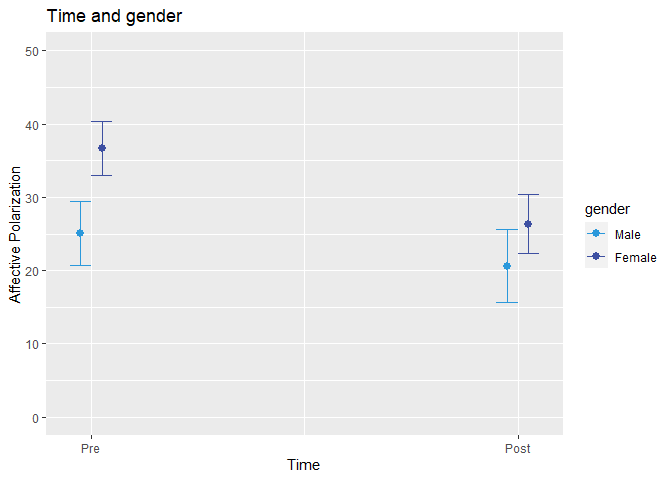
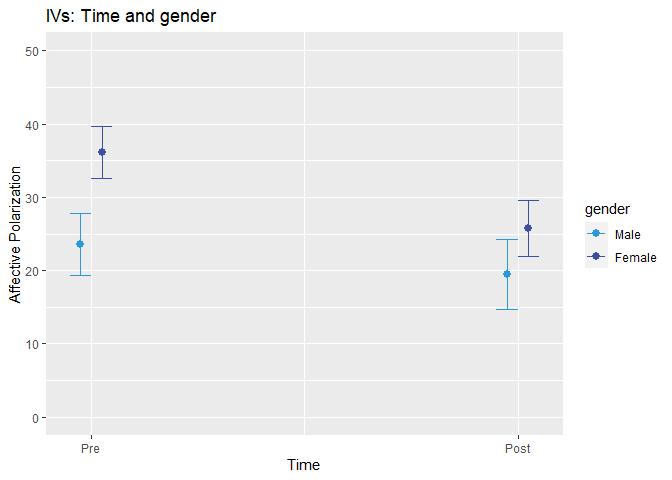
update readme

diff --git a/README.md b/README.md
@@ -126,7 +126,7 @@ assessmentv7 <- om_download_at(key,
 
     ## Seting up key
     ## Download AssessmentV7 Data
-    ## Done. AssessmentV7 Data has 984 rows
+    ## Done. AssessmentV7 Data has 1084 rows
 
 ## `om_filter_data`
 
@@ -345,6 +345,7 @@ This section introduces the openmindR analysis functions.
 
   - [om\_ttest](https://github.com/openmindplatform/openmindR#om_ttest)
   - [om\_lm](https://github.com/openmindplatform/openmindR#om_lm)
+  - [om\_lmer](https://github.com/openmindplatform/openmindR#om_lmer)
 
 ## `om_ttest`
 
@@ -503,9 +504,9 @@ results$model
     ## 
     ## Coefficients:
     ##                        (Intercept)               ppol_catConservatives  
-    ##                            1.75000                             0.08824  
+    ##                            1.72358                             0.12149  
     ##                       genderFemale  ppol_catConservatives:genderFemale  
-    ##                            0.09404                            -0.13227
+    ##                            0.09275                            -0.16363
 
 ### Show a regression table
 
@@ -517,19 +518,19 @@ results$table
     ## ==============================================
     ##                                     Model 1   
     ## ----------------------------------------------
-    ## (Intercept)                           1.75 ***
+    ## (Intercept)                           1.72 ***
     ##                                      (0.06)   
-    ## ppol_catConservatives                 0.09    
+    ## ppol_catConservatives                 0.12    
     ##                                      (0.10)   
     ## genderFemale                          0.09    
-    ##                                      (0.08)   
-    ## ppol_catConservatives:genderFemale   -0.13    
+    ##                                      (0.07)   
+    ## ppol_catConservatives:genderFemale   -0.16    
     ##                                      (0.14)   
     ## ----------------------------------------------
     ## R^2                                   0.00    
     ## Adj. R^2                             -0.00    
-    ## Num. obs.                           454       
-    ## RMSE                                  0.67    
+    ## Num. obs.                           501       
+    ## RMSE                                  0.66    
     ## ==============================================
     ## *** p < 0.001, ** p < 0.01, * p < 0.05
 
@@ -547,20 +548,20 @@ standardized version of the dataset. Effect sizes were labelled
 following Funder’s (2019) recommendations.
 
 The model explains a not significant and very weak proportion of
-variance (R2 = 0.00, F(3, 450) = 0.51, p = 0.673, adj. R2 = 0.00). The
+variance (R2 = 0.00, F(3, 497) = 0.71, p = 0.546, adj. R2 = 0.00). The
 model’s intercept, corresponding to ppol\_extreme = 0, ppol\_cat =
-Progressives and gender = Male, is at 1.75 (SE = 0.06, 95% CI \[1.62,
-1.88\], p \< .001). Within this model:
+Progressives and gender = Male, is at 1.72 (SE = 0.06, 95% CI \[1.61,
+1.84\], p \< .001). Within this model:
 
   - The effect of ppol\_catConservatives is positive and can be
-    considered as very small and not significant (beta = 0.09, SE =
-    0.10, 95% CI \[-0.12, 0.29\], std. beta = 0.13, p = 0.395).
+    considered as very small and not significant (beta = 0.12, SE =
+    0.10, 95% CI \[-0.07, 0.32\], std. beta = 0.18, p = 0.221).
   - The effect of genderFemale is positive and can be considered as very
-    small and not significant (beta = 0.09, SE = 0.08, 95% CI \[-0.06,
-    0.25\], std. beta = 0.14, p = 0.233).
+    small and not significant (beta = 0.09, SE = 0.07, 95% CI \[-0.05,
+    0.24\], std. beta = 0.14, p = 0.207).
   - The effect of ppol\_catConservatives:genderFemale is negative and
-    can be considered as very small and not significant (beta = -0.13,
-    SE = 0.14, 95% CI \[-0.41, 0.15\], std. beta = -0.20, p = 0.353).
+    can be considered as small and not significant (beta = -0.16, SE =
+    0.14, 95% CI \[-0.43, 0.11\], std. beta = -0.25, p = 0.232).
 
 ### Show estimated means
 
@@ -571,10 +572,10 @@ results$estimated_means %>%
 
 | gender | ppol\_cat     |     Mean |        SE |  CI\_low | CI\_high |
 | :----- | :------------ | -------: | --------: | -------: | -------: |
-| Male   | Progressives  | 1.750000 | 0.0644329 | 1.623373 | 1.876627 |
-| Male   | Conservatives | 1.838235 | 0.0812017 | 1.678654 | 1.997817 |
-| Female | Progressives  | 1.844037 | 0.0453515 | 1.754910 | 1.933164 |
-| Female | Conservatives | 1.800000 | 0.0864458 | 1.630112 | 1.969888 |
+| Male   | Progressives  | 1.723577 | 0.0599180 | 1.605853 | 1.841301 |
+| Male   | Conservatives | 1.845070 | 0.0788644 | 1.690122 | 2.000019 |
+| Female | Progressives  | 1.816326 | 0.0424548 | 1.732913 | 1.899740 |
+| Female | Conservatives | 1.774193 | 0.0843945 | 1.608380 | 1.940008 |
 
 ### Show a plot of the means
 
@@ -633,7 +634,7 @@ This function performs a mixed model and gives back some neat info
 
 Three inputs:
 
-  - *modd* a fitted model
+  - *mod* a fitted model
 
   - *type* what kind of model (currently only accepts `"int"` for
     interactions)
@@ -673,8 +674,7 @@ Next you can use `om_lmer`.
 
 ``` r
 results <- om_lmer(mixed,
-                   type = "int",
-                   mod_transform = "meansd")
+                   type = "int")
 ```
 
 ### Show the model
@@ -686,17 +686,17 @@ results$model
     ## Linear mixed model fit by REML ['lmerMod']
     ## Formula: Response ~ Time * gender + (1 | OMID)
     ##    Data: cleaned_dat_long
-    ## REML criterion at convergence: 5309.335
+    ## REML criterion at convergence: 5789.496
     ## Random effects:
     ##  Groups   Name        Std.Dev.
-    ##  OMID     (Intercept) 25.24   
-    ##  Residual             11.68   
-    ## Number of obs: 588, groups:  OMID, 364
+    ##  OMID     (Intercept) 25.00   
+    ##  Residual             11.84   
+    ## Number of obs: 640, groups:  OMID, 403
     ## Fixed Effects:
     ##           (Intercept)               TimePost           genderFemale  
-    ##                25.073                 -4.449                 11.622  
+    ##                23.560                 -4.098                 12.592  
     ## TimePost:genderFemale  
-    ##                -5.897
+    ##                -6.261
 
 ### Show a regression table
 
@@ -708,22 +708,22 @@ results$table
     ## ===================================
     ##                        Model 1     
     ## -----------------------------------
-    ## (Intercept)               25.07 ***
-    ##                           (2.26)   
-    ## TimePost                  -4.45 *  
-    ##                           (1.79)   
-    ## genderFemale              11.62 ***
-    ##                           (2.96)   
-    ## TimePost:genderFemale     -5.90 ** 
-    ##                           (2.25)   
+    ## (Intercept)               23.56 ***
+    ##                           (2.15)   
+    ## TimePost                  -4.10 *  
+    ##                           (1.78)   
+    ## genderFemale              12.59 ***
+    ##                           (2.80)   
+    ## TimePost:genderFemale     -6.26 ** 
+    ##                           (2.22)   
     ## -----------------------------------
-    ## AIC                     5321.33    
-    ## BIC                     5347.60    
-    ## Log Likelihood         -2654.67    
-    ## Num. obs.                588       
-    ## Num. groups: OMID        364       
-    ## Var: OMID (Intercept)    637.16    
-    ## Var: Residual            136.38    
+    ## AIC                     5801.50    
+    ## BIC                     5828.26    
+    ## Log Likelihood         -2894.75    
+    ## Num. obs.                640       
+    ## Num. groups: OMID        403       
+    ## Var: OMID (Intercept)    624.80    
+    ## Var: Residual            140.22    
     ## ===================================
     ## *** p < 0.001, ** p < 0.01, * p < 0.05
 
@@ -743,18 +743,18 @@ following Funder’s (2019) recommendations.The model’s total explanatory
 power is substantial (conditional R2 = 0.83) and the part related to the
 fixed effects alone (marginal R2) is of 0.05. The model’s intercept,
 corresponding to Response = 0, Time = Pre, gender = Male and OMID =
-1002059522913, is at 25.07 (SE = 2.26, 95% CI \[20.64, 29.51\], p \<
+1002059522913, is at 23.56 (SE = 2.15, 95% CI \[19.35, 27.77\], p \<
 .001). Within this model:
 
   - The effect of TimePost is negative and can be considered as very
-    small and significant (beta = -4.45, SE = 1.79, 95% CI \[-7.95,
-    -0.95\], std. beta = -0.16, p \< .05).
+    small and significant (beta = -4.10, SE = 1.78, 95% CI \[-7.58,
+    -0.62\], std. beta = -0.14, p \< .05).
   - The effect of genderFemale is positive and can be considered as
-    small and significant (beta = 11.62, SE = 2.96, 95% CI \[5.82,
-    17.42\], std. beta = 0.41, p \< .001).
+    medium and significant (beta = 12.59, SE = 2.80, 95% CI \[7.10,
+    18.08\], std. beta = 0.44, p \< .001).
   - The effect of TimePost:genderFemale is negative and can be
-    considered as small and significant (beta = -5.90, SE = 2.25, 95% CI
-    \[-10.30, -1.49\], std. beta = -0.21, p \< .01).
+    considered as small and significant (beta = -6.26, SE = 2.22, 95% CI
+    \[-10.62, -1.91\], std. beta = -0.22, p \< .01).
 
 ### Show estimated means
 
@@ -765,10 +765,10 @@ results$estimated_means %>%
 
 | Time | predicted | std.error | conf.low | conf.high | group  | group\_col |
 | ---: | --------: | --------: | -------: | --------: | :----- | :--------- |
-|    1 |  25.07285 |  2.263358 | 20.63675 |  29.50895 | Male   | Male       |
-|    1 |  36.69484 |  1.905688 | 32.95976 |  40.42992 | Female | Female     |
-|    2 |  20.62430 |  2.551229 | 15.62398 |  25.62462 | Male   | Male       |
-|    2 |  26.34953 |  2.053164 | 22.32541 |  30.37366 | Female | Female     |
+|    1 |  23.56024 |  2.146757 | 19.35267 |  27.76781 | Male   | Male       |
+|    1 |  36.15190 |  1.796647 | 32.63053 |  39.67326 | Female | Female     |
+|    2 |  19.46213 |  2.463927 | 14.63292 |  24.29133 | Male   | Male       |
+|    2 |  25.79242 |  1.956786 | 21.95719 |  29.62765 | Female | Female     |
 
 ### Show a plot of the means
 
